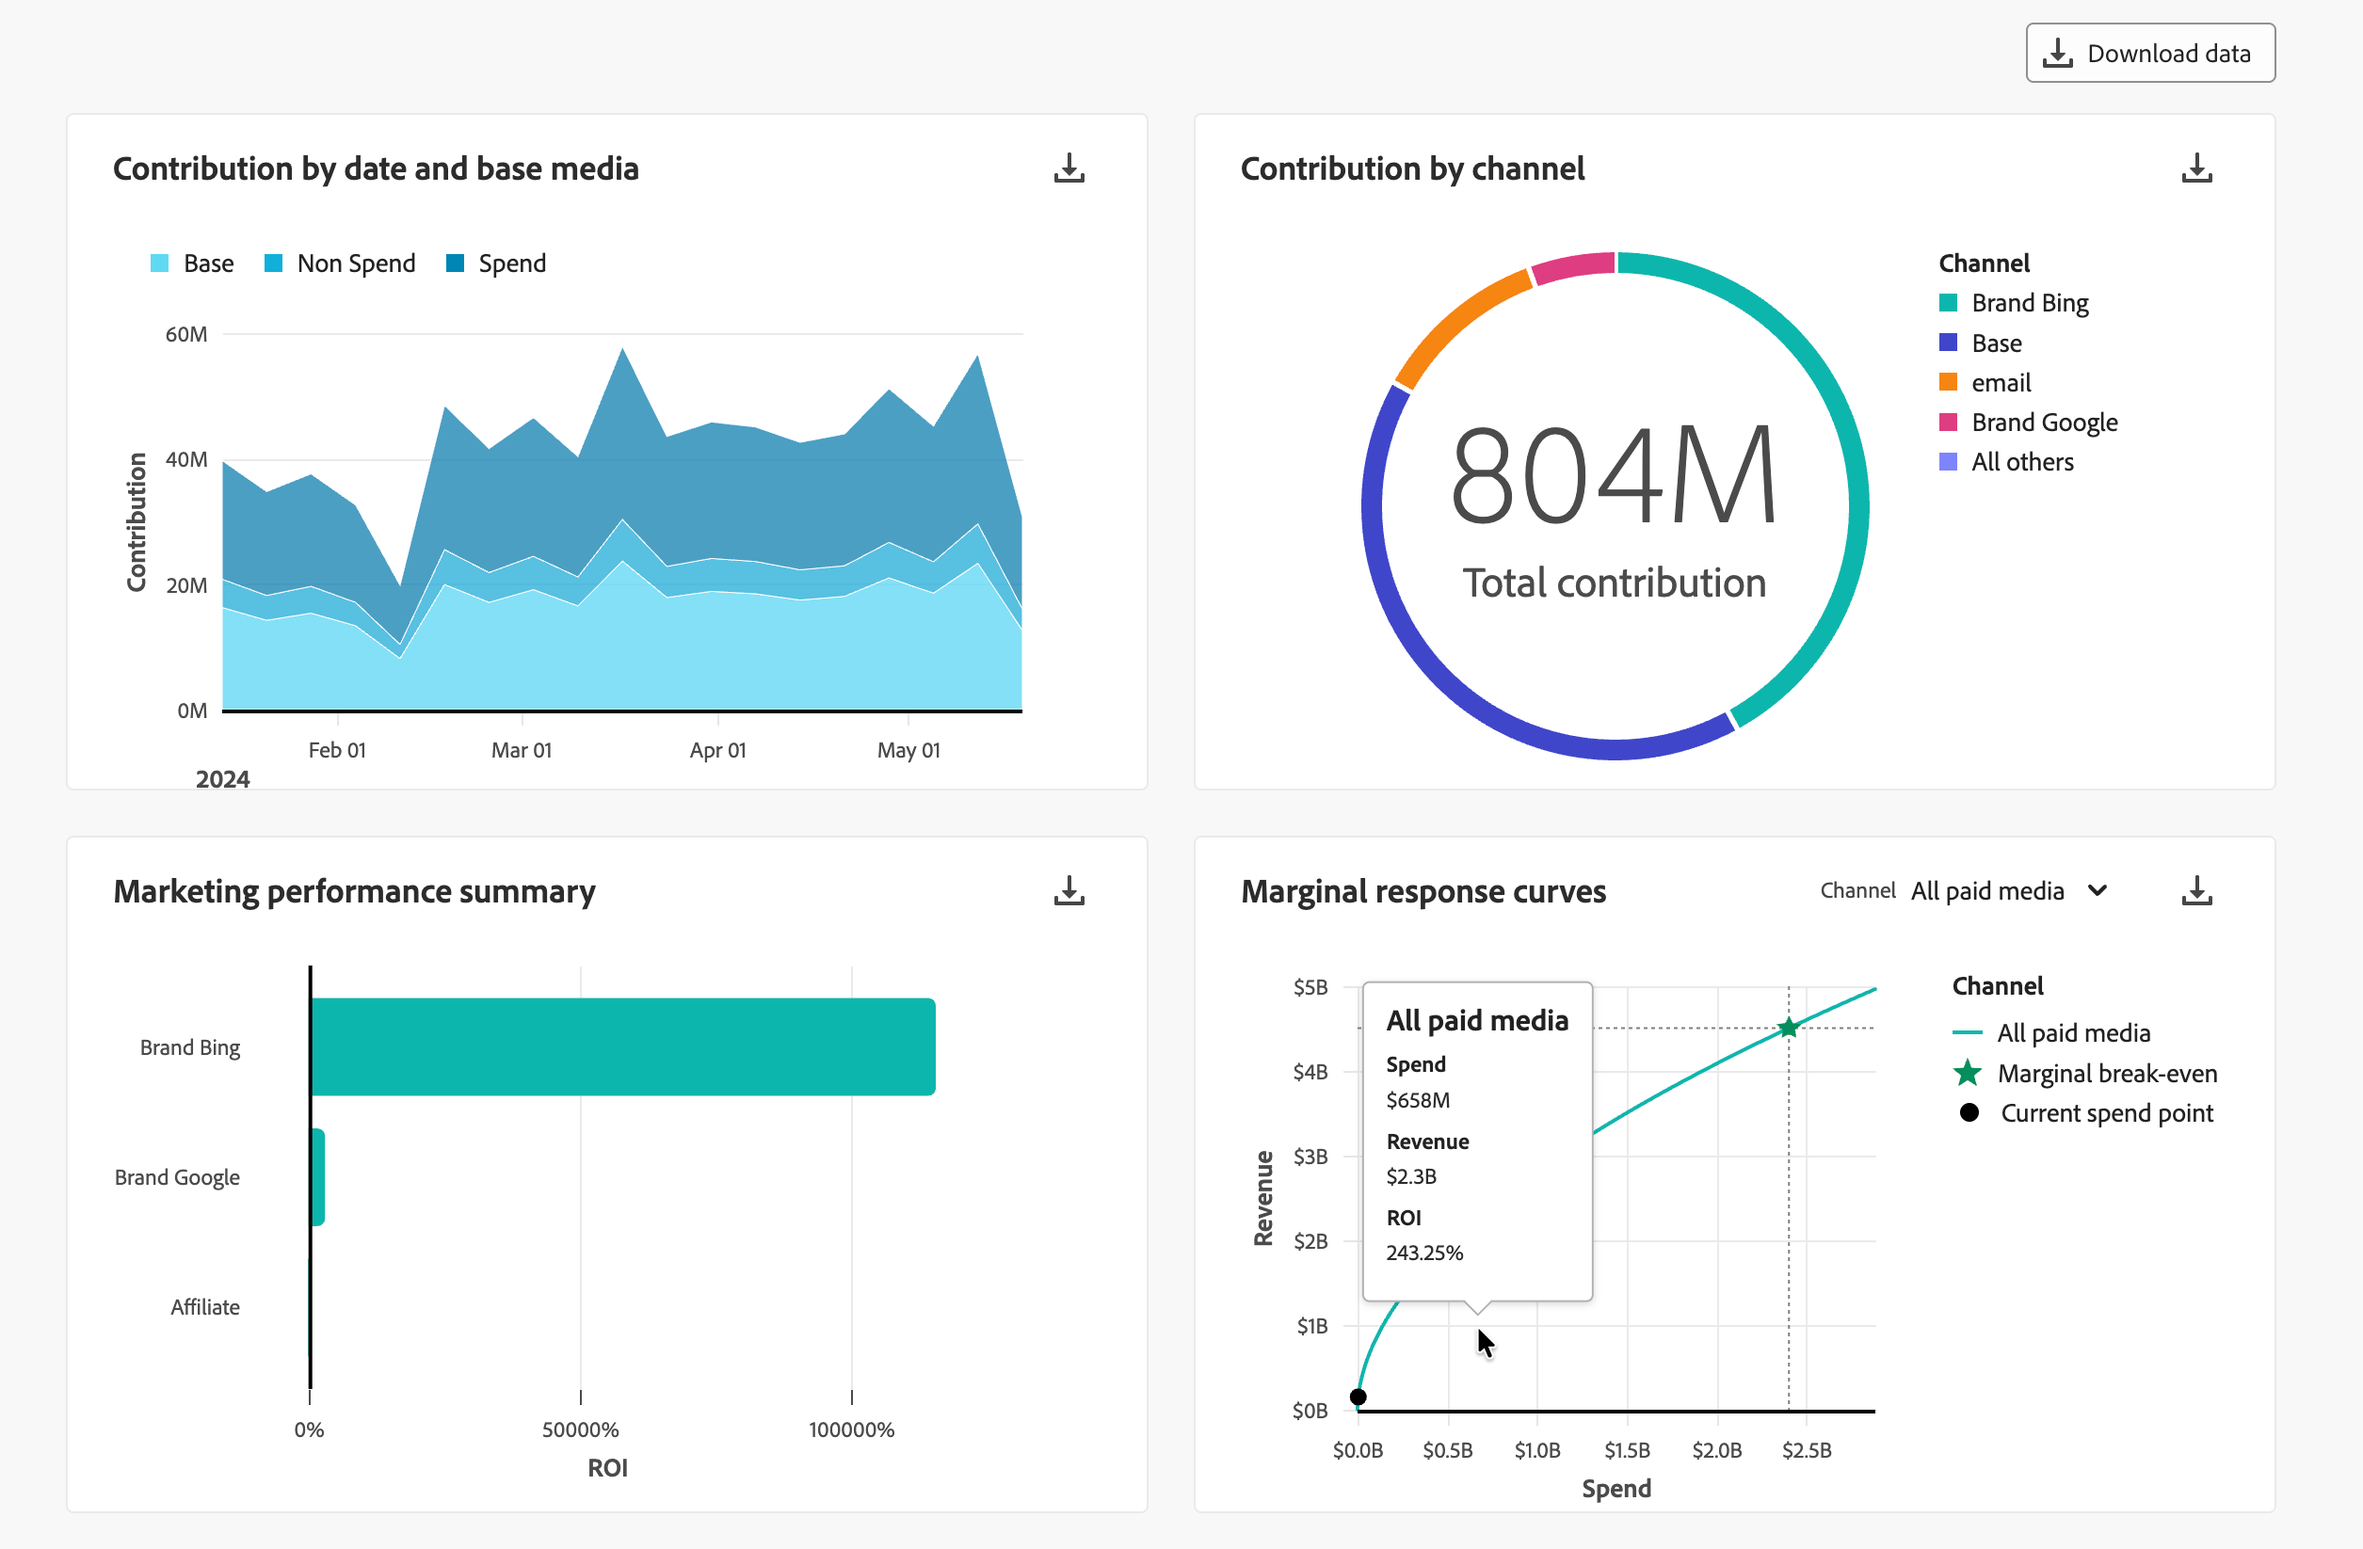
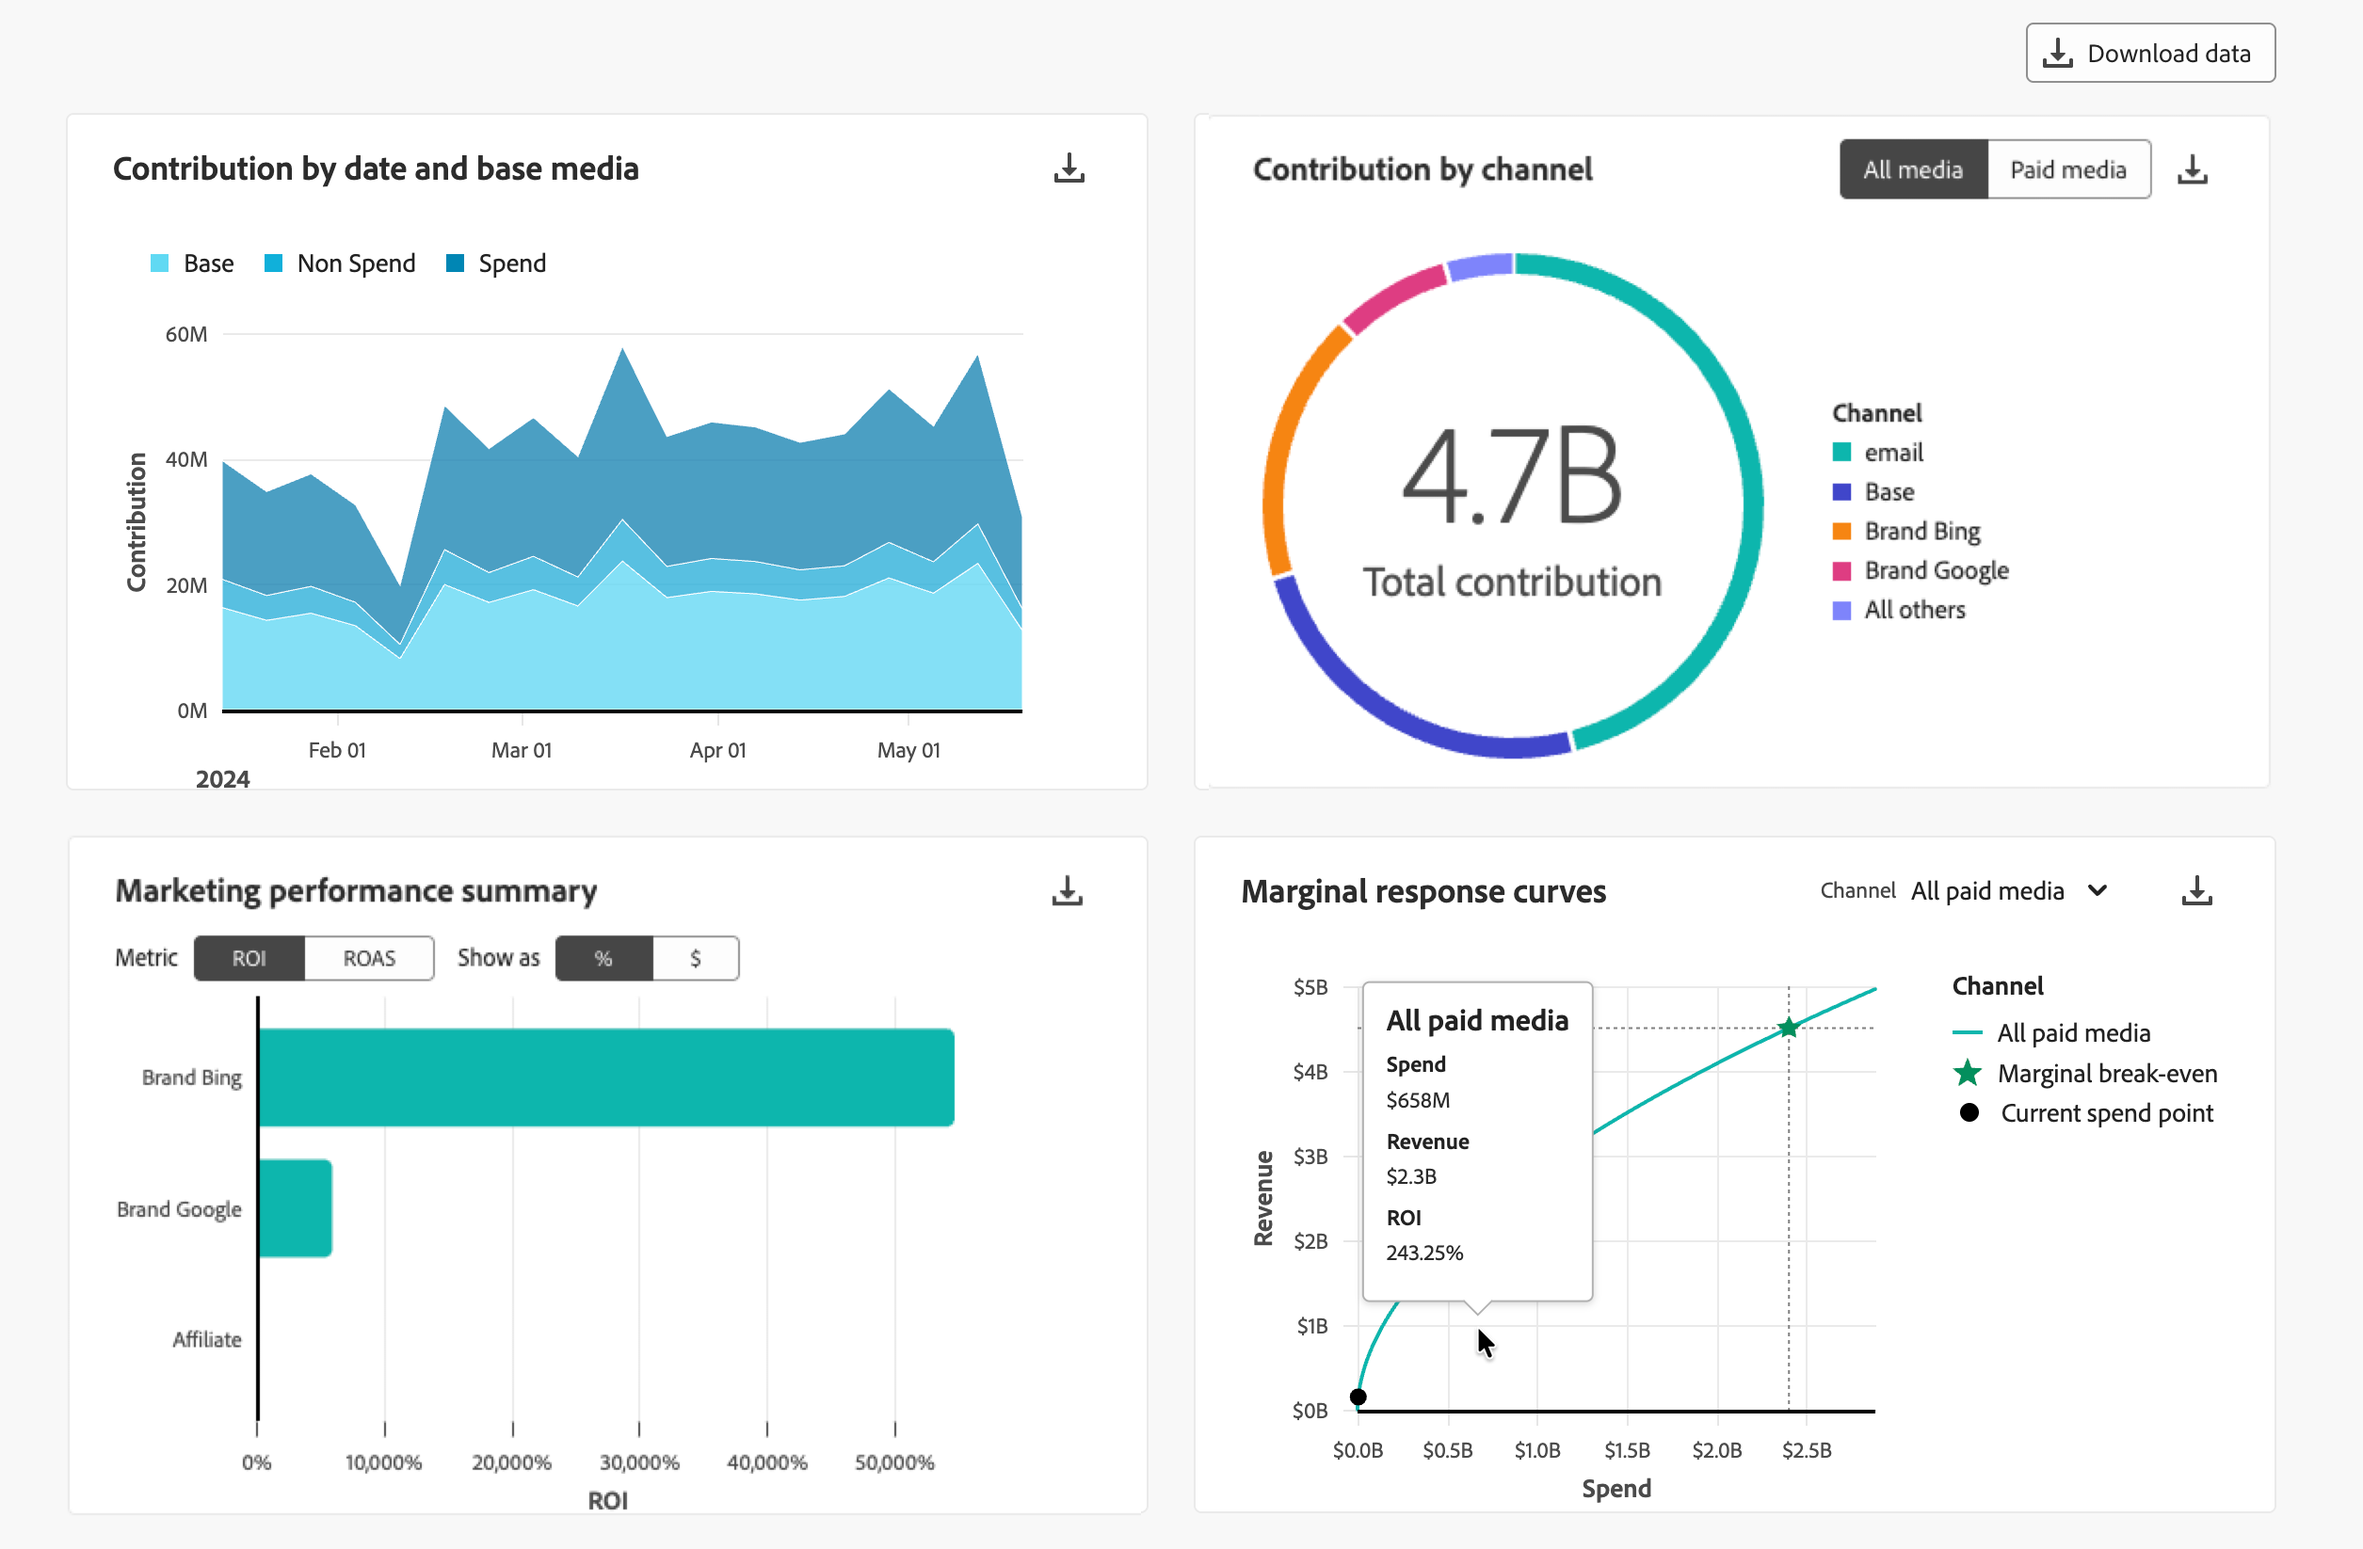
Documentation for AN-487590-AN487592

diff --git a/help/models/insights.md b/help/models/insights.md
@@ -87,7 +87,13 @@ This visualization represents the contribution proportion achieved by base, by s
 
 ### Contribution by channel
 
-A donut visualization that shows a distribution of the contribution by various channels. This visualization showcases incrementality through the lens of the top three performing channels (excluding base and *All others* categories). The visualization helps to support prioritization and budget allocation.
+A donut visualization that shows a distribution of the contribution by various channels. This visualization showcases incrementality through the lens of the top  performing channels. The visualization helps to support prioritization and budget allocation.
+
+You can select what media channels to display in the visualization:
+
+* To focus on the contribution of paid media channels only, select **[!UICONTROL Paid media]**.
+* To see the contribution for all channels, select **[!UICONTROL All media]**.
+
 
 ### Marketing performance summary {#marketing-performance-summary}
 
@@ -97,6 +103,11 @@ A donut visualization that shows a distribution of the contribution by various c
 >abstract="Undefined channels are included, but have no attributed conversions."
 
 A horizontal bar graph visualization that displays the ROI or CPA performance by each of the channels. This visualization highlights the ROI / CPA of your marketing investments. The channels are ranked in descending order based on ROI / CPA. The visualization helps to identify which channels are most effective and which might need optimization. 
+
+For revenue based models only:
+
+* To configure the desired **[!UICONTROL Metric]** for the visualization, select between **[!UICONTROL ROI]** ((revenue - spend) / spend) or **[!UICONTROL ROAS]** (revenue / spend).
+* To configure how the selected metric is displayed, select between **[!UICONTROL %]** or **[!UICONTROL $]** for **[!UICONTROL Show as]**. 
 
 Undefined channels are included in the visualization but have no attributed conversions.
 

diff --git a/help/harmonize-data/dataset-rules.md b/help/harmonize-data/dataset-rules.md
@@ -36,6 +36,7 @@ Dataset rules assist you in mapping your harmonized fields with fields from the 
 * For aggregate data that you ingested in Adobe Experience Platform, you map one or more of the available dataset fields to the appropriate harmonized fields. 
 * For event data, you can individually map one or more harmonized fields to fields from the dataset, directly or using conditions.
 
+![Dataset rules list](/help/assets/harmonize-dataset-rules-list.png)
 
 ## Manage dataset rules
 
@@ -45,7 +46,15 @@ To see a table of the available dataset rules, in the Mix Modeler interface:
    
 1. Select **[!UICONTROL Dataset rules]** from the top bar. You see a table of the dataset rules.
 
-You can search for a dataset quickly using ![Search](/help/assets/icons/Search.svg) **[!UICONTROL _Enter a dataset name_]**.
+You can search and filter on datasets:
+
+* Search for a dataset quickly using ![Search](/help/assets/icons/Search.svg) **[!UICONTROL _Enter a dataset name_]**.
+* Filter on datasets using:
+  * **[!UICONTROL Source]**: select between **[!UICONTROL all]**, **[!UICONTROL Summary]**, **[!UICONTROL Adobe Analytics]**, **[!UICONTROL Adobe Audience Manager]**, **[!UICONTROL Experience Events]**, **[!UICONTROL Consumer Experience Events]**, or **[!UICONTROL Factors]**.
+  * **[!UICONTROL Granularity]**: select between **[!UICONTROL all]**, **[!UICONTROL Daily]**, **[!UICONTROL Weekly]**, **[!UICONTROL Monthly]**, or **[!UICONTROL Yearly]**.
+  * **[!UICONTROL Start of the week]**: select all or a  possible weekday (**[!UICONTROL Monday]** to **[!UICONTROL Sunday]**.)
+
+Use ![CrossSize200](/help/assets/icons/CrossSize200.svg) **[!UICONTROL Clear]** to clear all filters and search field.
 
 The table columns specify details about the dataset rules:
 

diff --git a/help/releases/latest.md b/help/releases/latest.md
@@ -31,6 +31,15 @@ autotag-review: '2026-05-01T09:06:55.437Z'
 
 These release notes cover the latest release of Mix Modeler. Mix Modeler releases operate on a continuous delivery model, which allows for an approximate monthly release cadence. Accordingly, these release notes get updated, so check them regularly.
 
+## August 2026
+
+| Feature | Description | [Rollout start](#release-strategy) | [General Availability](#release-strategy) |
+|---|---|---|---|
+| **Filter on dataset rules** | In harmonized datasets configuration, you can [filter dataset rules on source, granularity and start of the week](/help/harmonize-data/dataset-rules.md#manage-dataset-rules). | August 19, 2026 | August 19, 2026 | 
+| **Paid media channel focus** | You can select to [focus on Paid media channel contribution](/help/models/insights.md#contribution-by-channel) in Model insights. | August 19, 2026 | August 19, 2026 |
+| **Marketing performance summary configuration** | You can [select metric and how metric is shown](/help/models/insights.md#marketing-performance-summary) for the marketing performance summary of revenue-baded models in Models insights. | August 19, 2026 | August 19, 2026 |
+
+
 ## March 2026
 
 | Feature | Description | [Rollout start](#release-strategy) | [General Availability](#release-strategy) |
